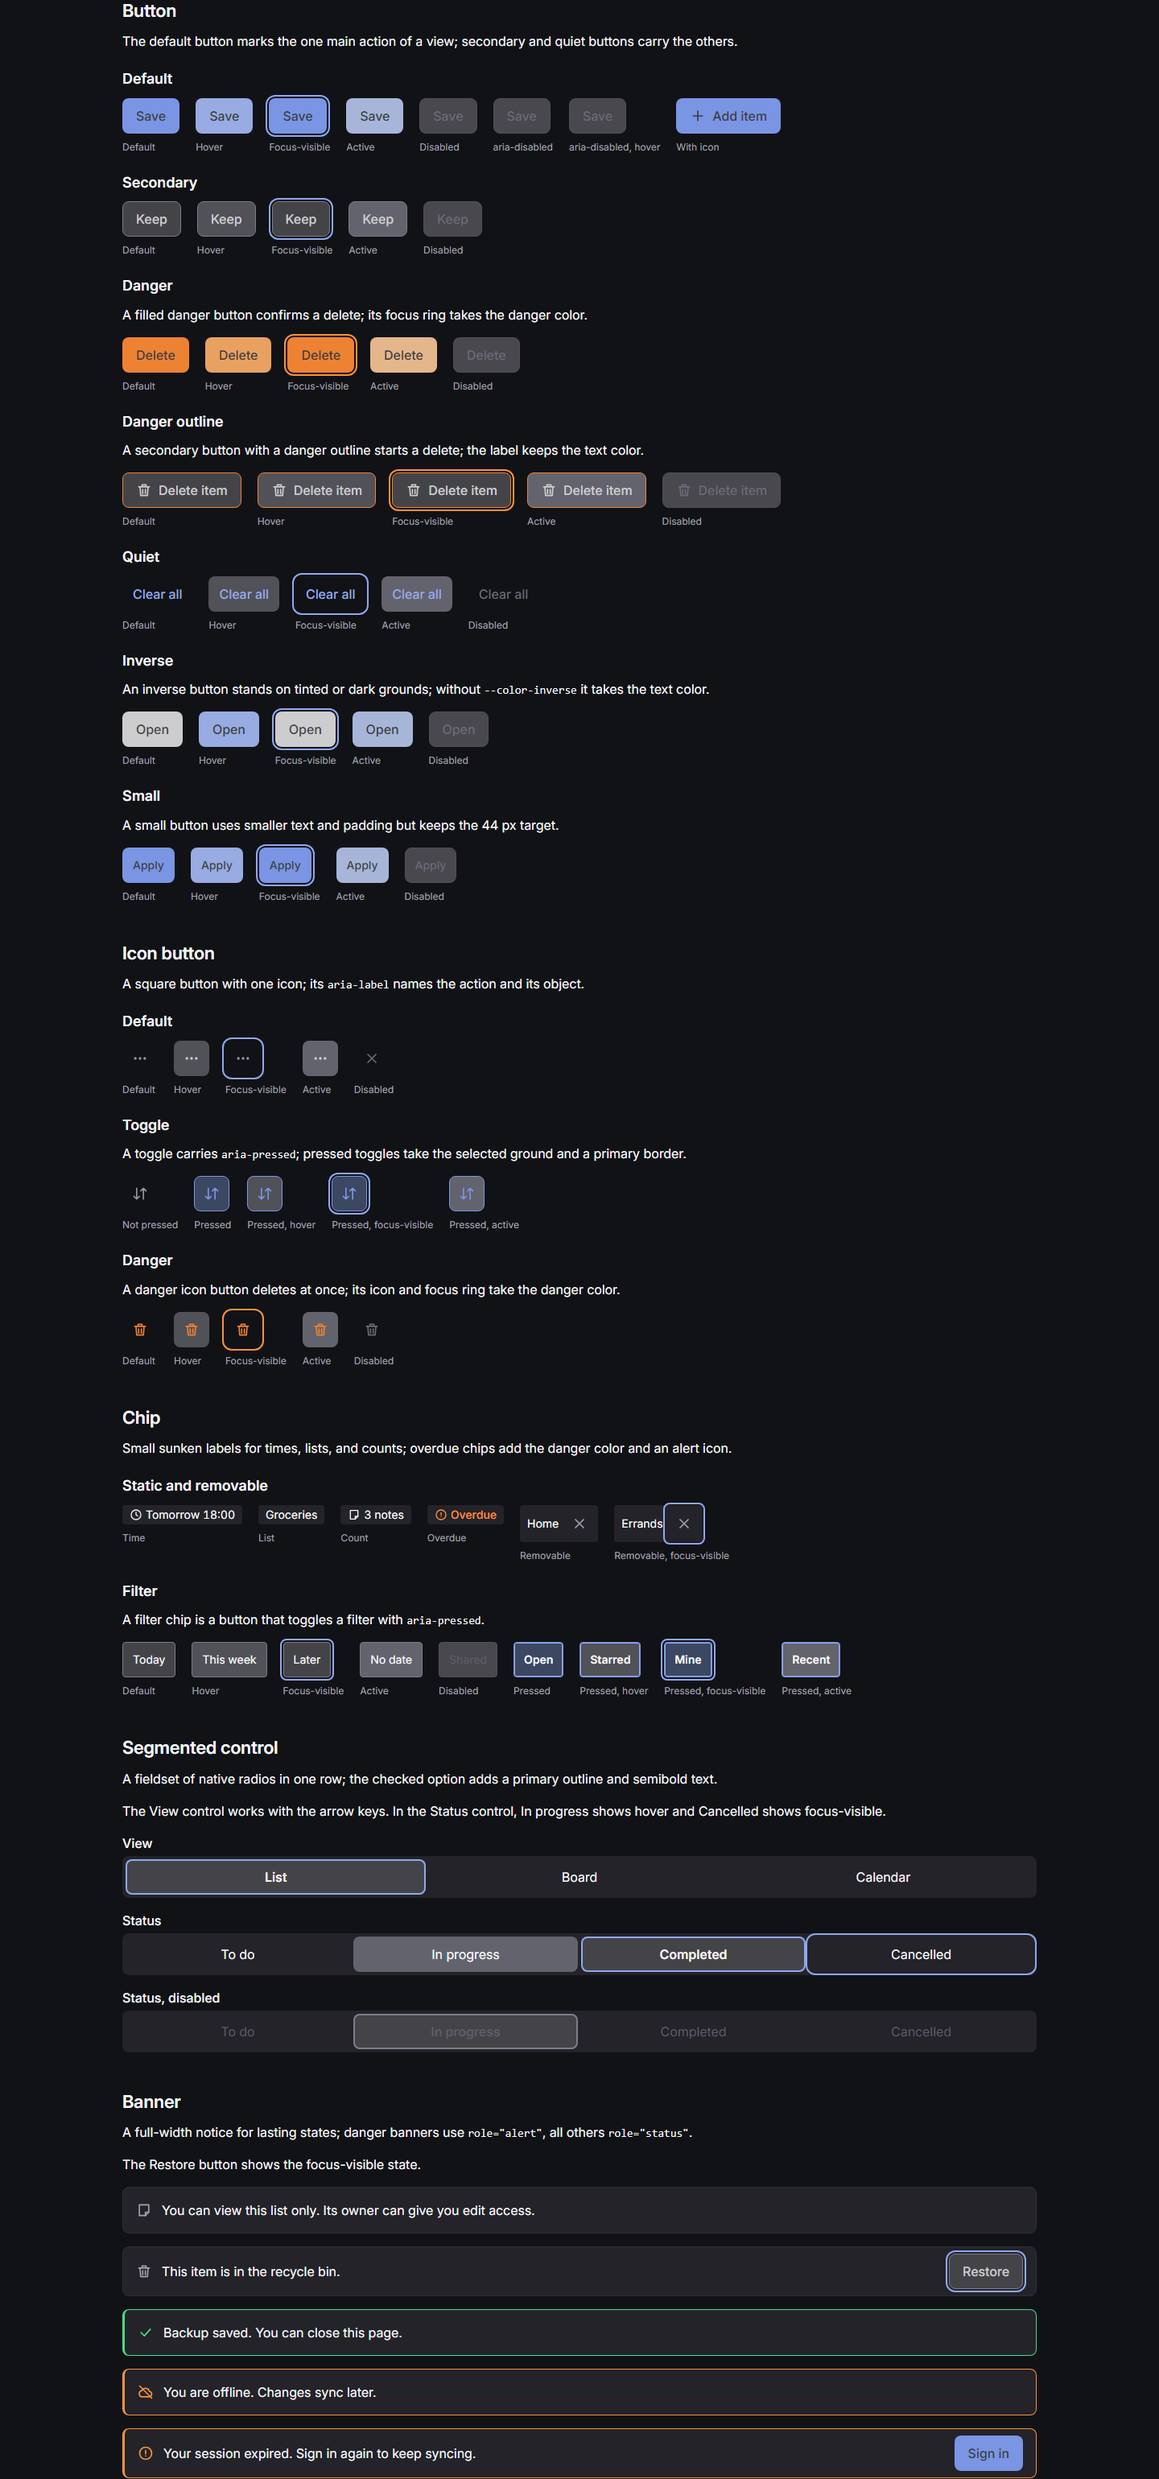
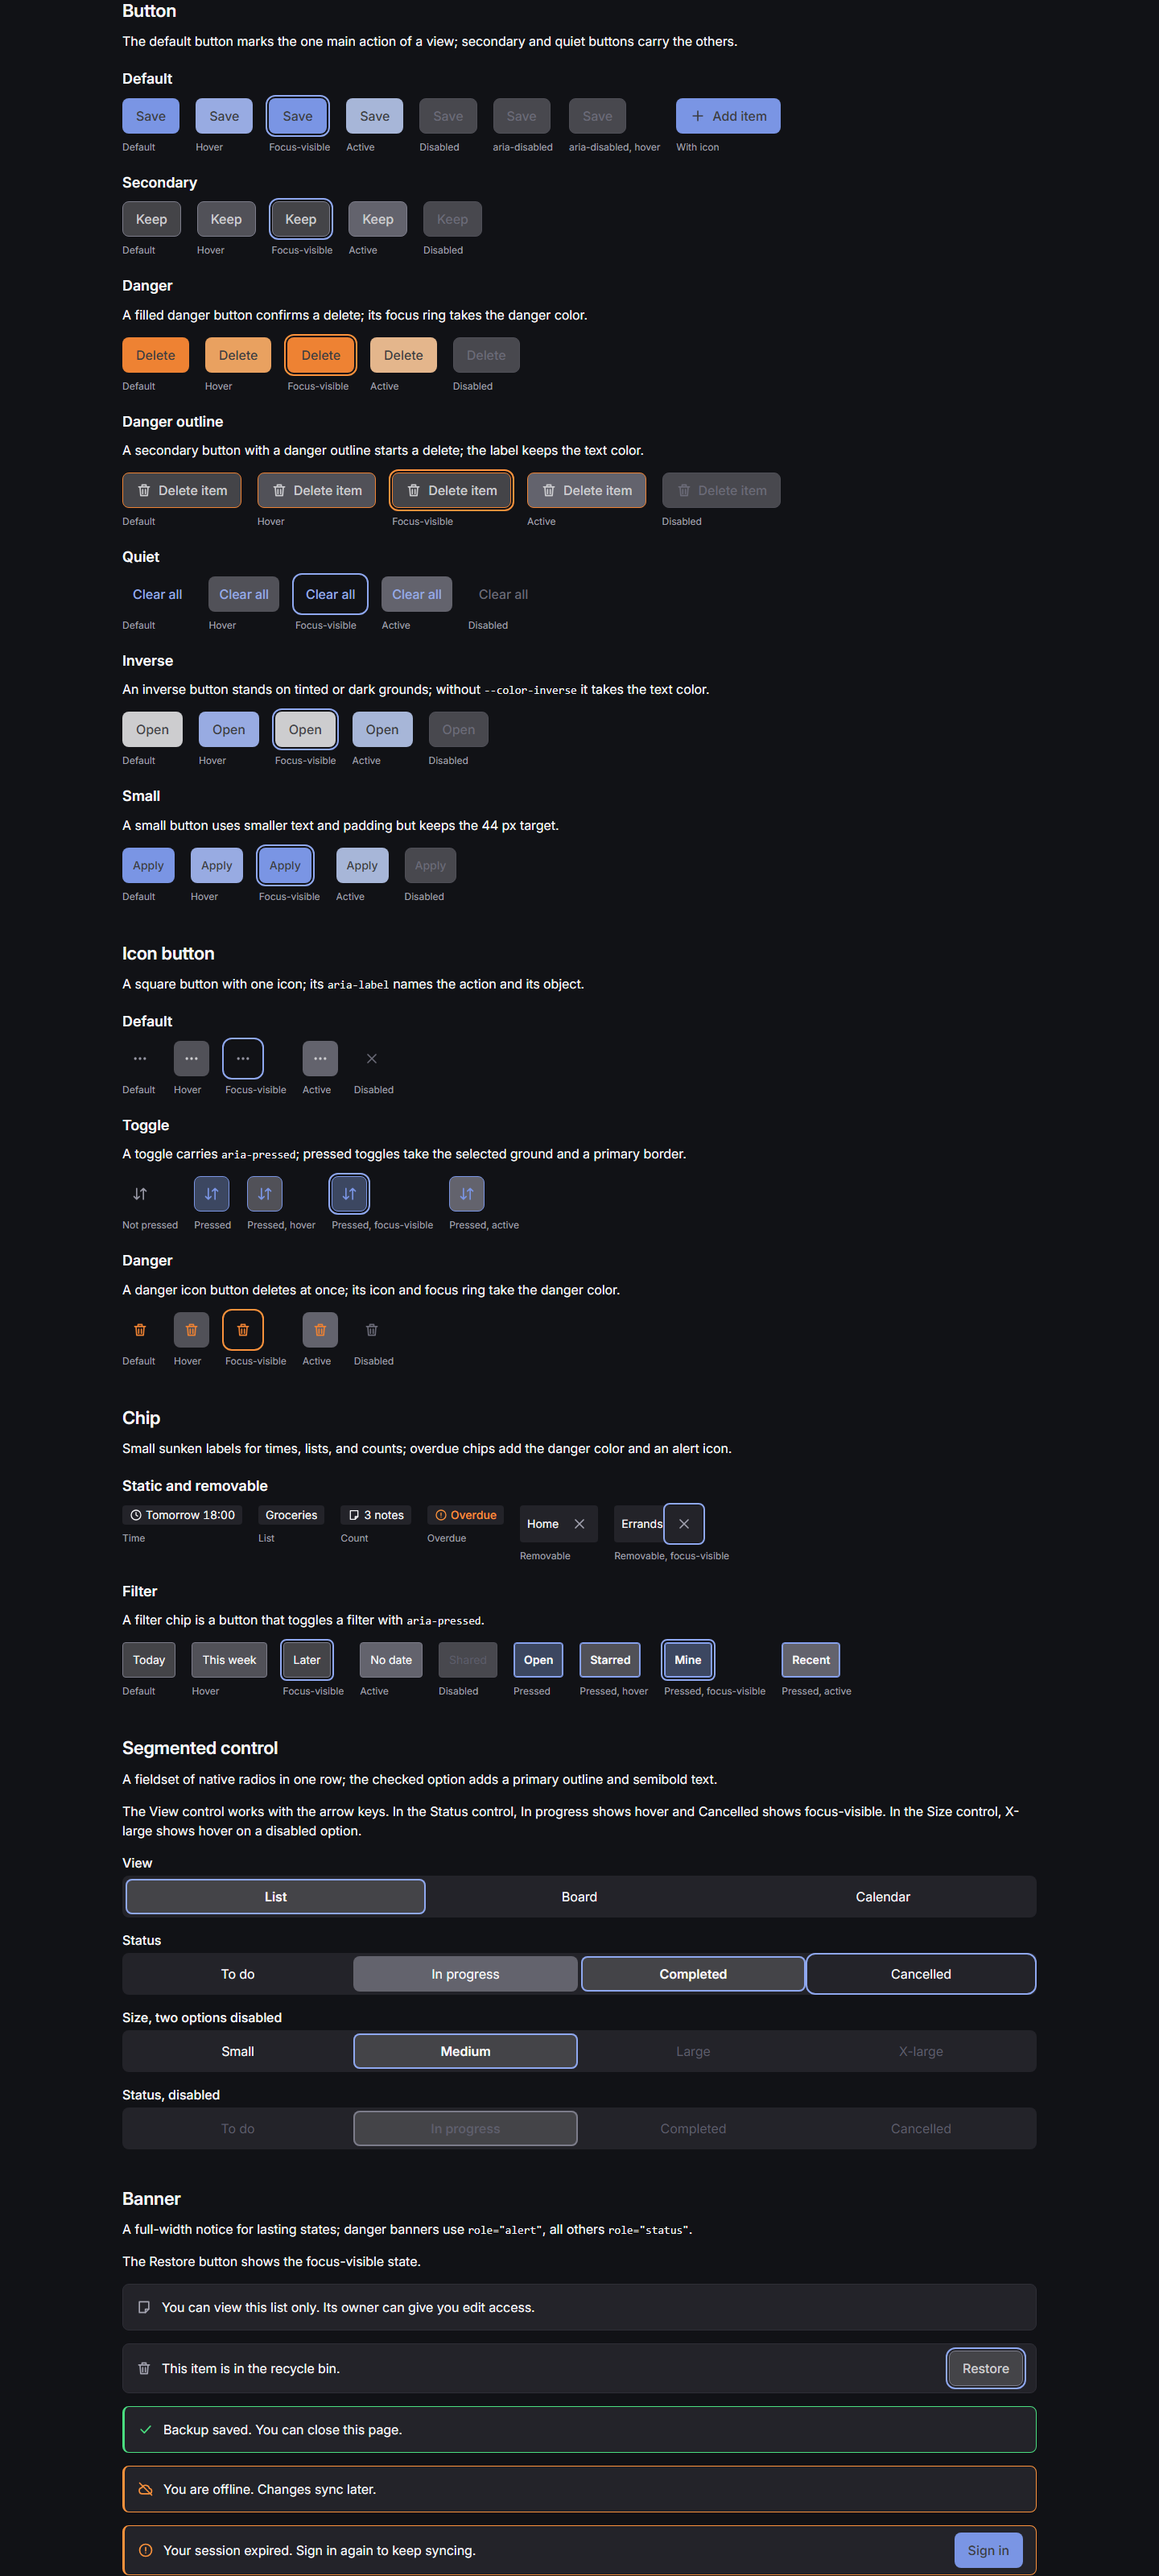
Checkpointed task T0007.

diff --git a/tasks/T0007-extract-the-button-icon-button-banner-chip-and/validation-proof.md b/tasks/T0007-extract-the-button-icon-button-banner-chip-and/validation-proof.md
@@ -114,3 +114,47 @@ Command: `node capture.mjs {{worktree}} before|after`, exit code 0; every page r
 | dark  | 390 px  | [before](before-controls-dark-390.png)              | [after](after-controls-dark-390.png)              |
 | light | 1440 px | [before](before-controls-light-1440.png)            | [after](after-controls-light-1440.png)            |
 | dark  | 1440 px | [before](before-controls-dark-1440.png)             | [after](after-controls-dark-1440.png)             |
+
+### Review round 1 rework
+
+Red: `npx playwright test tests/e2e/segmented.spec.js tests/e2e/verify-ui.spec.js --project desktop-light -g "single disabled radio|reports injected" --timeout 15000 --reporter=line`, exit code 1.
+
+```text
+    Error: expect(received).toBeGreaterThanOrEqual(expected)
+    Expected: >= 2
+    Received:    0
+    Error: expect(received).toEqual(expected) // deep equality
+    +   "label#inactive 'Inactive placeholder': contrast 1.00 < 4.5",
+    > 373 |     expect(problems.filter((problem) => problem.startsWith('label#inactive'))).toEqual([]);
+  2 failed
+```
+
+Green: the same command after the fix, exit code 0.
+
+```text
+  2 passed (9.0s)
+```
+
+Completion check: `npx playwright test tests/e2e/button.spec.js tests/e2e/icon-button.spec.js tests/e2e/chip.spec.js tests/e2e/segmented.spec.js --reporter=list`, exit code 0.
+
+```text
+  116 passed (51.3s)
+```
+
+Command: `python scripts/devops.py check`, exit code 0.
+
+```text
+All 22 markdown files passed linting.
+All checks passed!
+============================== 3 passed in 1.59s ==============================
+ Test Files  7 passed (7)
+      Tests  543 passed (543)
+  136 passed (41.2s)
+ Test Files  2 passed (2)
+      Tests  4 passed (4)
+[neutral system 1440px] 15 stylesheets, 509 texts, 84 targets, 84 focus records, 64 sprite references, overflow 0px, errors 0
+[neutral dark 1440px] 15 stylesheets, 509 texts, 84 targets, 84 focus records, 64 sprite references, overflow 0px, errors 0
+[... per-test lines and npm pack listing omitted ...]
+```
+
+The after screenshots were recaptured with the Size specimen; every page returned HTTP 200 without errors.

diff --git a/tasks/T0007-extract-the-button-icon-button-banner-chip-and.md b/tasks/T0007-extract-the-button-icon-button-banner-chip-and.md
@@ -13,9 +13,11 @@ preview: none
 protocol: standard
 usage:
   worker: {turns: 6, duration_s: 4661.0, input: 136, output: 26800, cache_read: 15098796, cache_write: 580958}
-work_duration: 2278.5
-review_status: pending
+  review: {turns: 2, duration_s: 371.4, input: 76, output: 23942, cache_read: 2372544, cache_write: 153346}
+work_duration: 7321.5
+review_status: rejected
 review_round: 1
+reviewed_by: "@claude-2"
 ---
 # T0007: Extract the button, icon button, banner, chip, and segmented control components from todos.webapp
 
@@ -74,4 +76,21 @@ See the technical specification for files, tests, and the completion check.
 
 - [2026-11-12] **[Review]**
   Round 1 requested (mode: agent).
+
+- [2026-11-12] **[Review]**
+  Round 1 rejected by @claude-2: The work is high quality and nearly complete.
+  - Findings: [review-findings-1.md](T0007-extract-the-button-icon-button-banner-chip-and/review-findings-1.md).
+
+- [2026-11-12] **[Implement]**
+  Addressed review round 1: single disabled radios now dim their option, with a gallery specimen, a regression test, and updated catalog and guide lines.
+  - Undeclared: verify-ui.spec.js skips labels of disabled controls, per WCAG 1.4.3.
+
+- [2026-11-12] **[Verify]**
+  Size note: the rework touched verify-ui.spec.js, the ninth counted file; splitting one skip rule would not merge alone.
+
+- [2026-11-12] **[Verify]**
+  Rework verified: 2 tests failed first, then the completion check passed 116 and devops check passed 543, 136, and 4.
+  - Files touched: 9.
+  - Lines touched: 382.
+  - Reopenings: 0.
 

diff --git a/tasks/T0007-extract-the-button-icon-button-banner-chip-and/review-findings-1.md b/tasks/T0007-extract-the-button-icon-button-banner-chip-and/review-findings-1.md
@@ -3,7 +3,7 @@ task: T0007
 round: 1
 verdict: rejected
 reviewer: "@claude-2"
-reviewed_at: 2026-11-12T13:01:59Z
+reviewed_at: 2026-11-12T13:05:09Z
 reviewed_commit: "ee2227f"
 base_commit: "73aaa9d"
 branch: task/T0007-extract-the-button-icon-button-banner-chip-and
